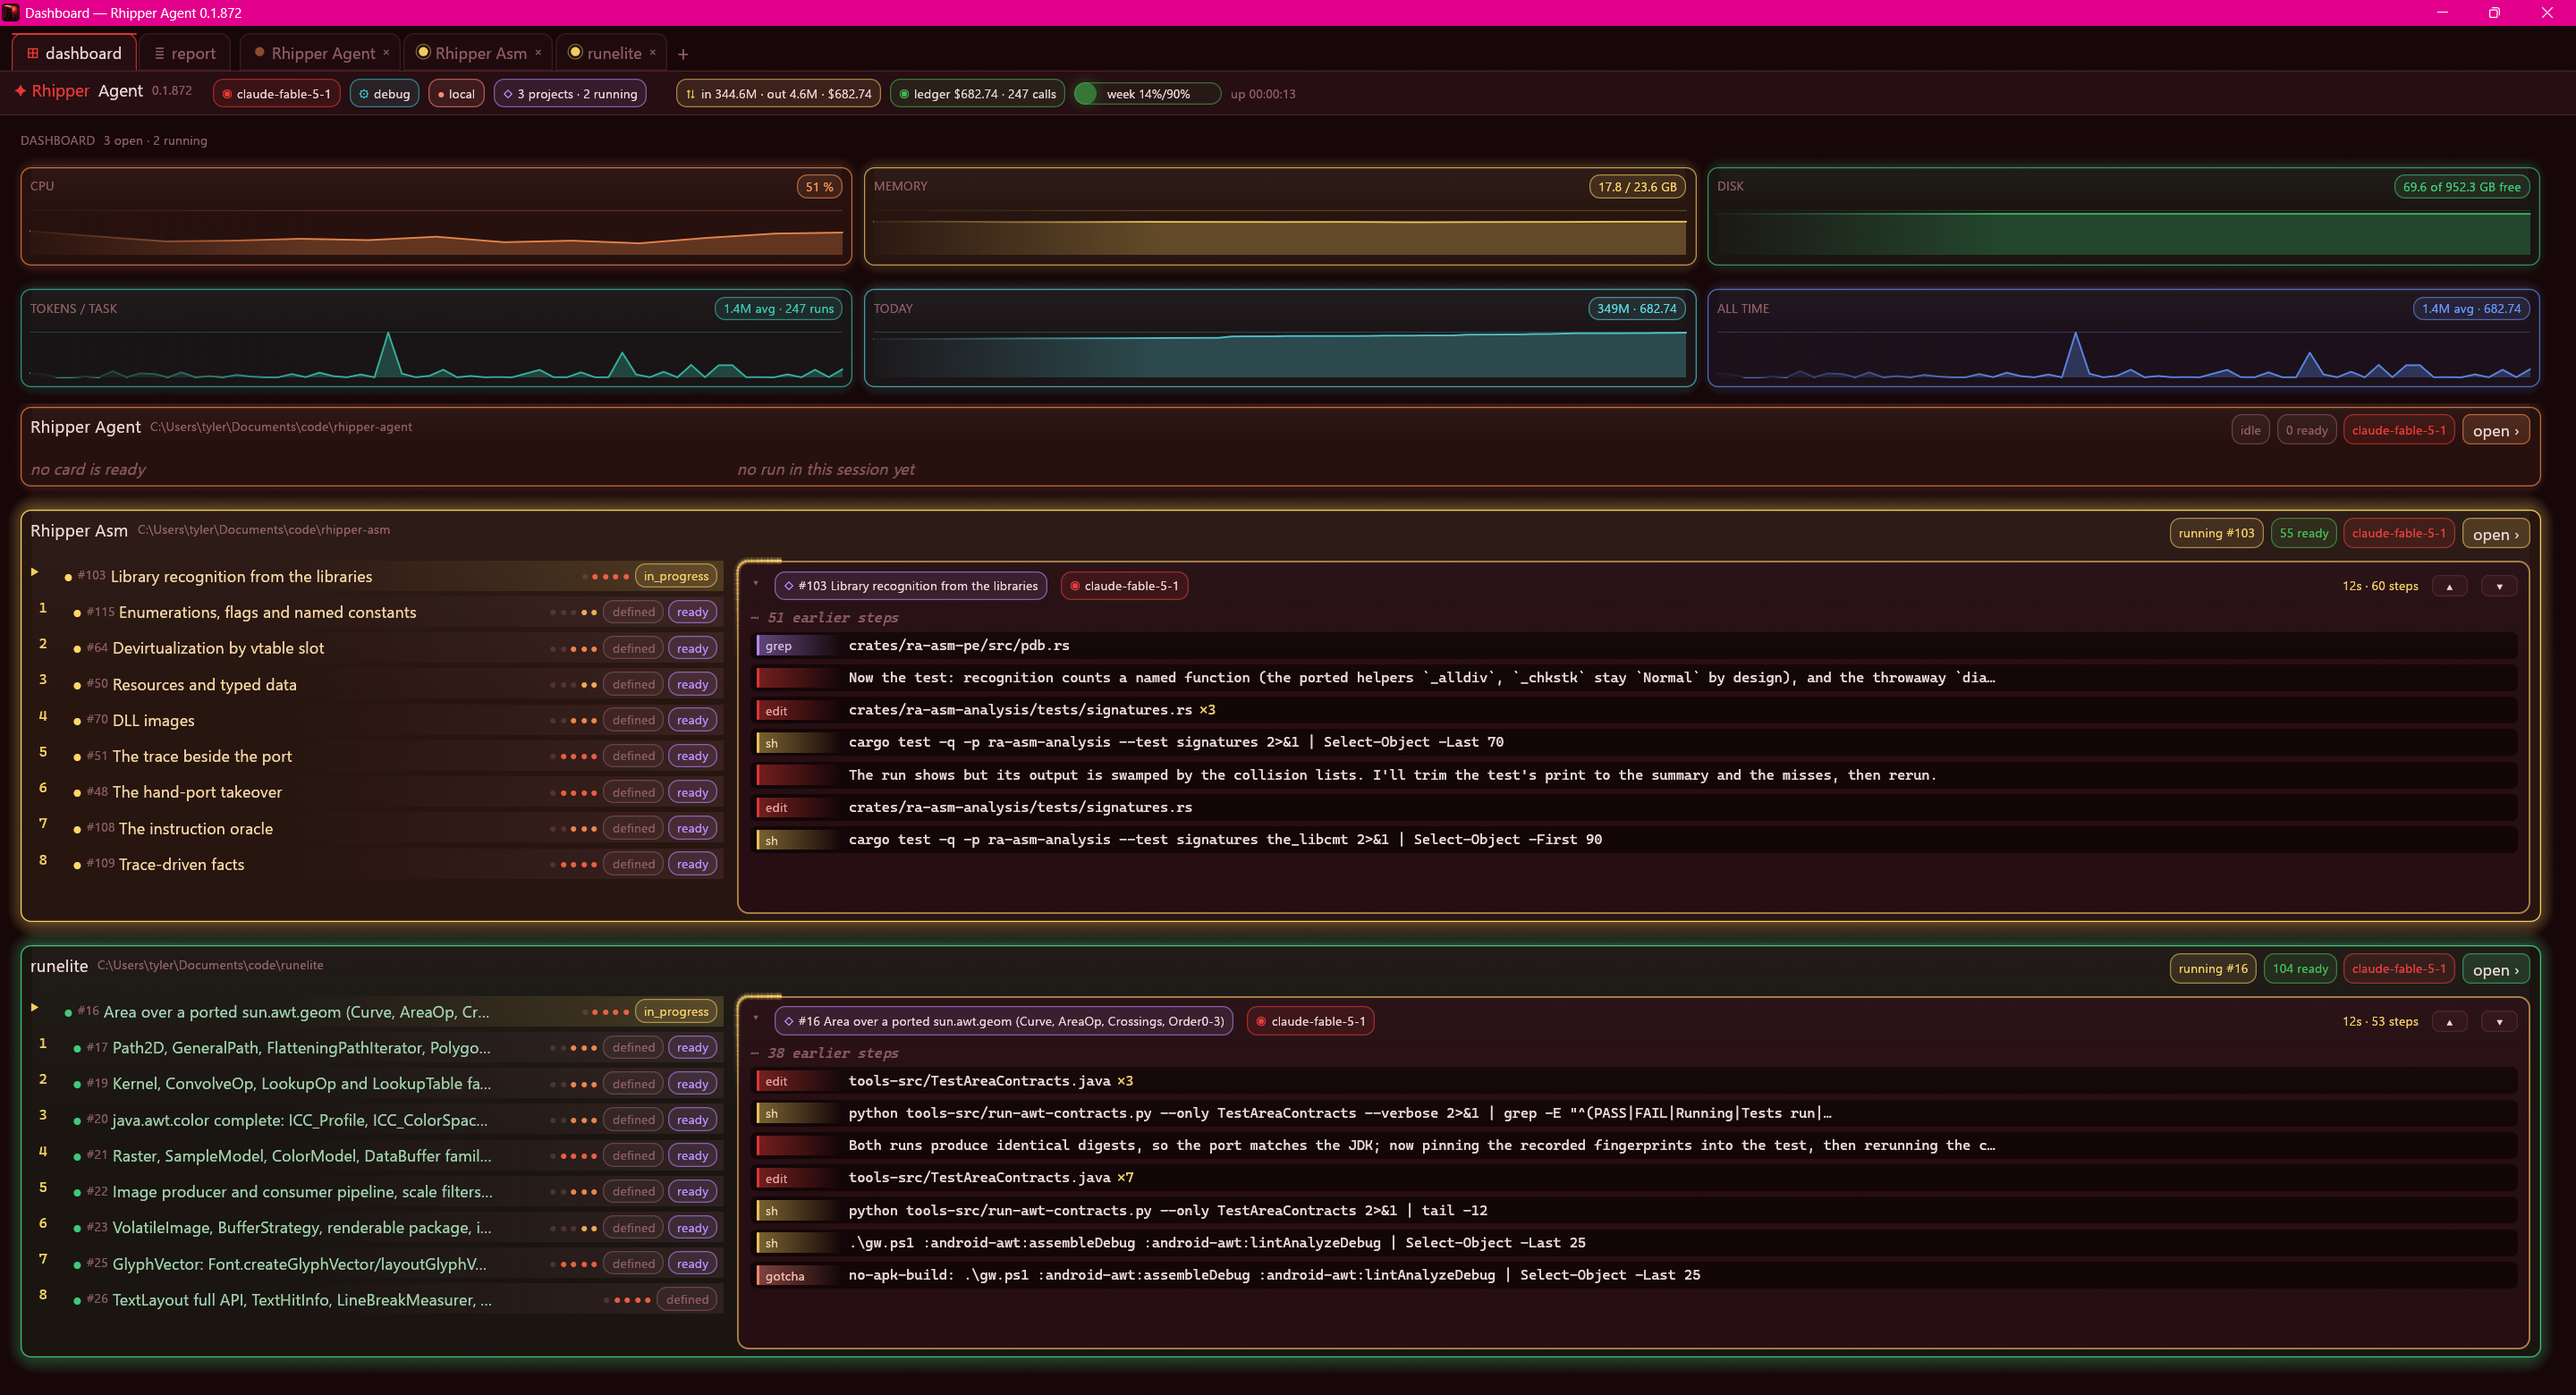
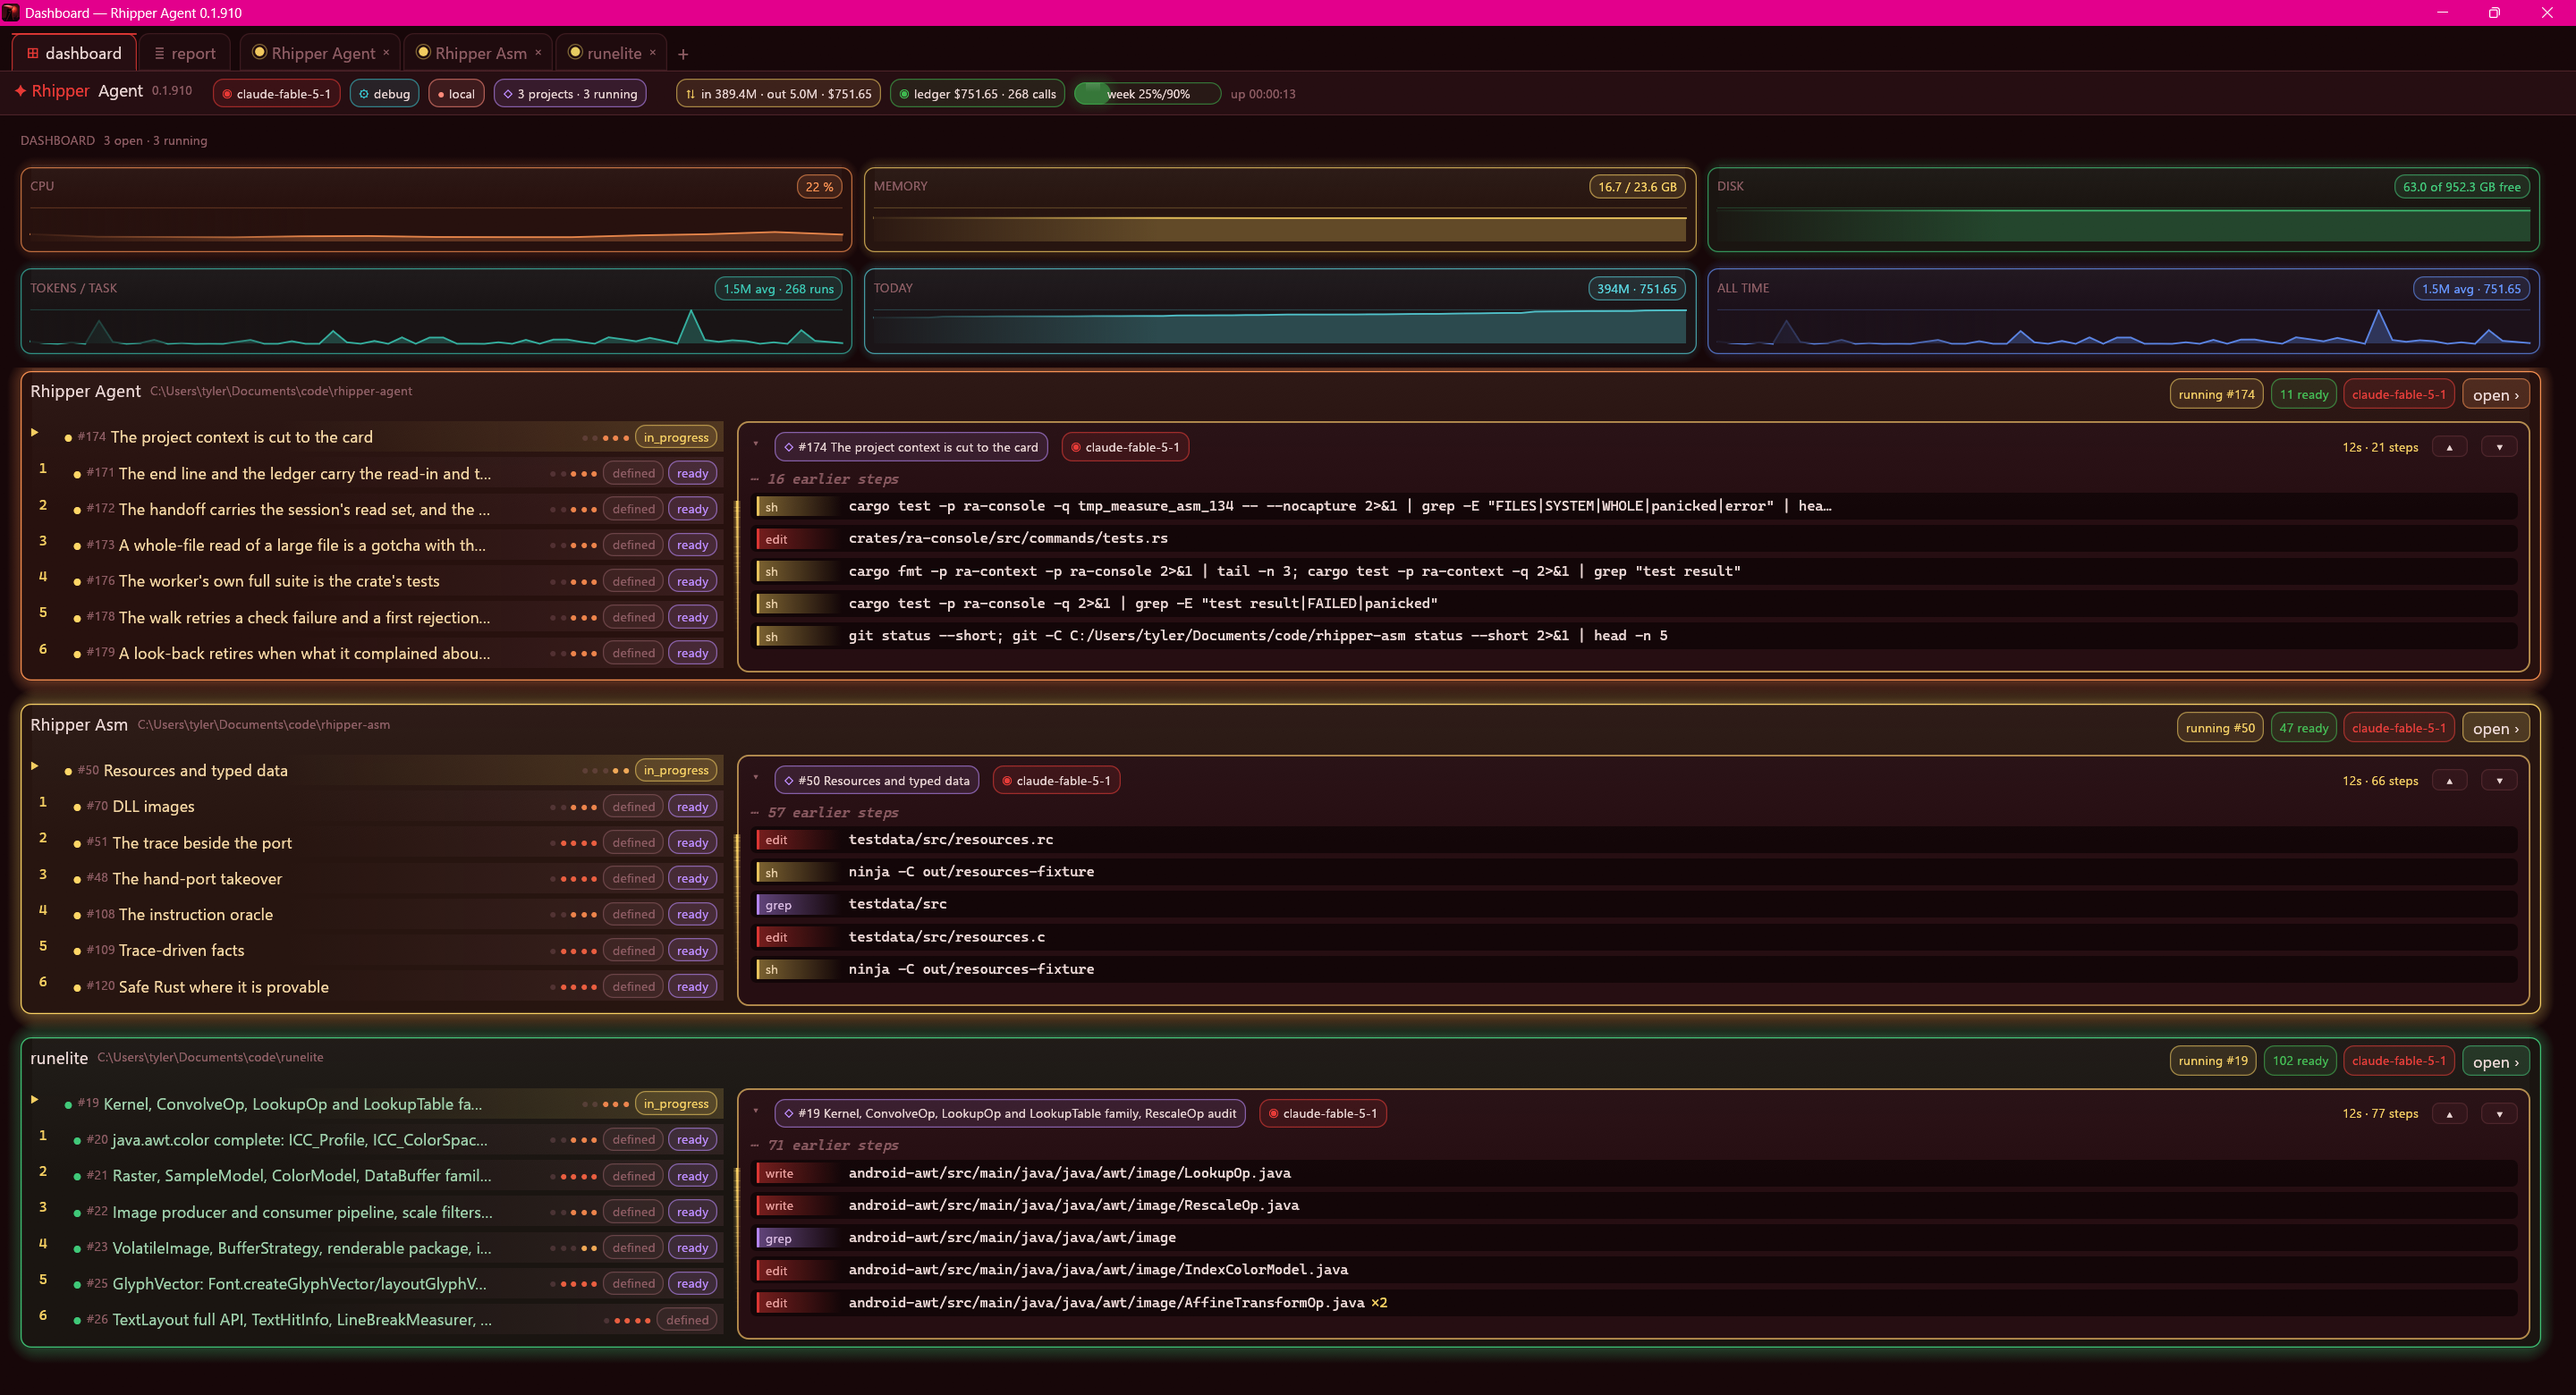
The run card's rows keep a thin space, no wider with few lines, and a tool call with nothing after its name is no line; the README's window

Changed region(s): [[0.0, 0.1231, 1.0, 0.9846]]

diff --git a/apps/rc-gui/src/console.rs b/apps/rc-gui/src/console.rs
@@ -287,6 +287,12 @@ fn run_steps(ui: &mut Ui, run: &Run, room: f32, bounded: bool) {
     // counted after the folding, so the card shows as many entries as it has rows for
     let mut folded: Vec<(&str, usize)> = Vec::new();
     for step in &run.steps {
+        // a tool call with nothing after its name (a Grep over the whole tree) is no line
+        if let (Some(_), rest, _) = step_tool(step)
+            && rest.trim().is_empty()
+        {
+            continue;
+        }
         match folded.last_mut() {
             Some((last, count)) if *last == step.as_str() => *count += 1,
             _ => folded.push((step.as_str(), 1)),
@@ -328,7 +334,9 @@ fn run_steps(ui: &mut Ui, run: &Run, room: f32, bounded: bool) {
     if bounded {
         // the rows drawn: the folded line stands in for one of the body's when steps hid
         let rows = body.max(1) as u32 as f32;
-        let extra = ((room - rows * row) / rows).clamp(0.0, row);
+        // a thin space at most: with few lines the rest of the room stays under them rather
+        // than spread them apart
+        let extra = ((room - rows * row) / rows).clamp(0.0, 3.0);
         // on the pixel grid: a fraction of a pixel between rows put the text between pixels,
         // and it snapped up or down a pixel from frame to frame
         let ppp = ui.pixels_per_point();
